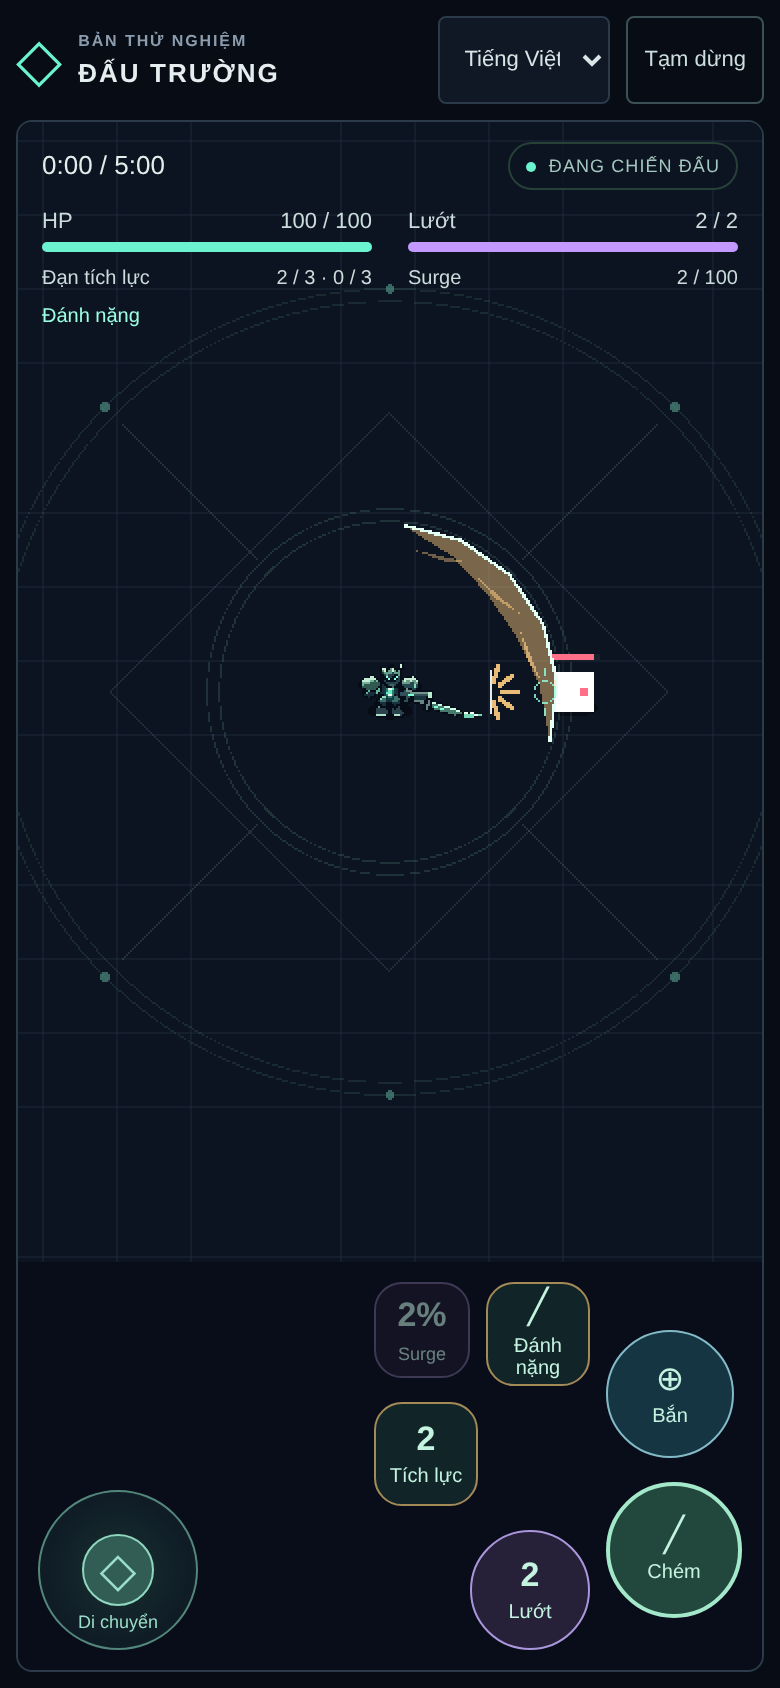
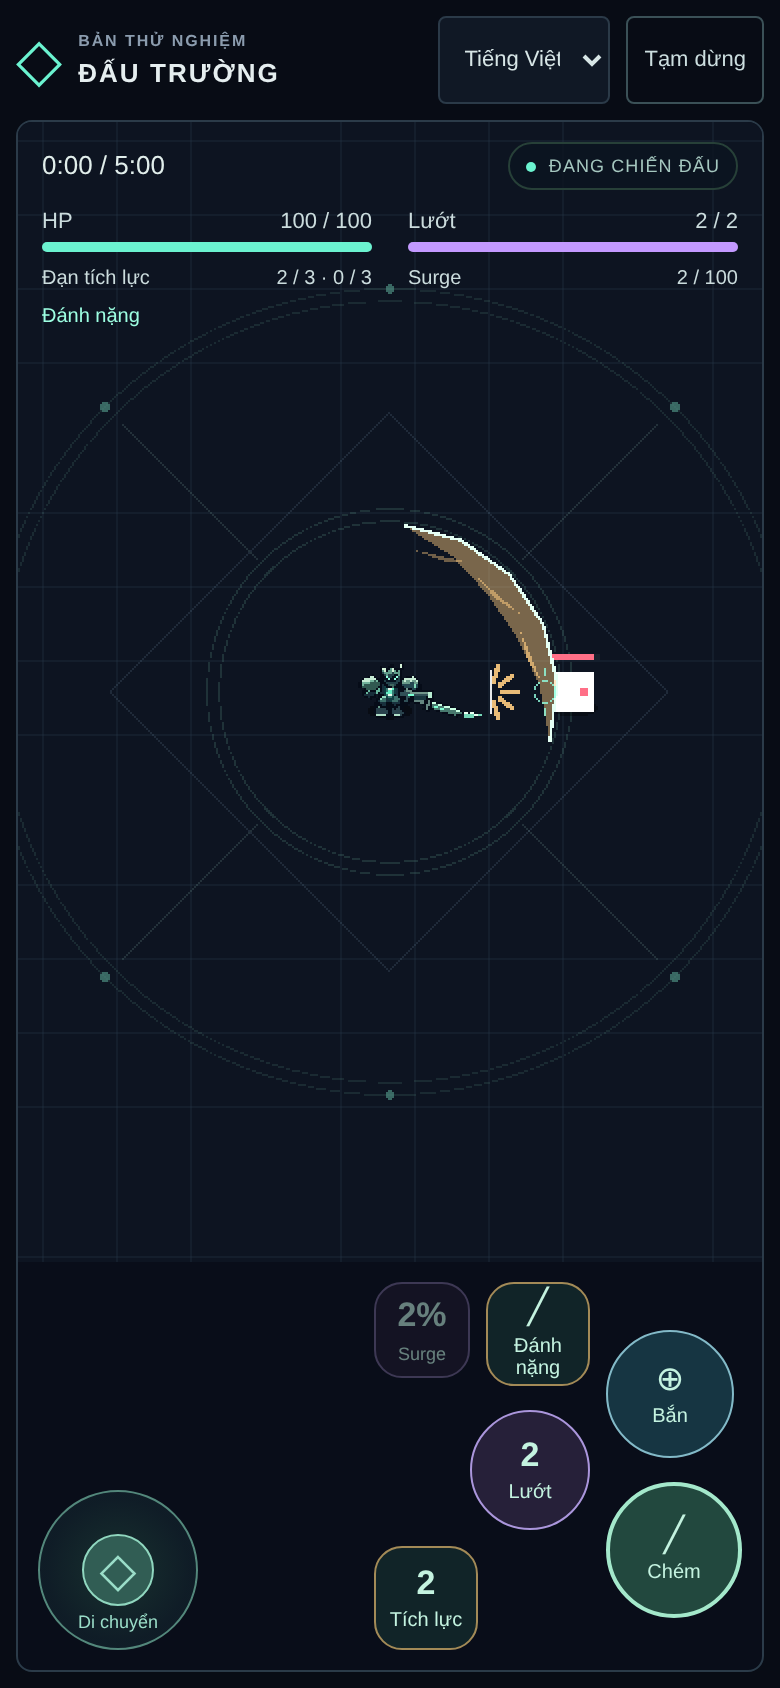
Gom Chém Bắn Lướt thành tam giác để chuyển ngón nhanh

Changed region(s): [[0.4923, 0.8318, 0.7692, 0.9858]]

diff --git a/src/style.css b/src/style.css
@@ -101,13 +101,13 @@ footer { display: none; }
 .touch-utility, .touch-primary { display: contents; }
 .touch-button { position: absolute; display: flex; flex-direction: column; justify-content: center; align-items: center; gap: 3px; min-width: 44px; min-height: 44px; padding: 3px; border: 1px solid #477168; border-radius: 14px; background: #12272aee; color: #c4f3e0; font-size: 10px; }
 .touch-button > span:first-child { font-size: 17px; font-weight: 600; line-height: 1.2; }
-/* Primary thumb arc: Shoot above Melee; Dash immediately inward. Specials sit apart. */
+/* Primary thumb arc: Shoot above Melee; Dash between them, inward. Specials sit apart. */
 .touch-button[data-action="ultimate"] { left: 0; top: 0; width: 48px; height: 48px; font-size: 9px; border-color: #72638f; background: #211c30ee; }
 .touch-button[data-action="heavy"] { left: 56px; top: 0; width: 52px; height: 52px; border-color: #a38a57; }
-.touch-button[data-action="charged"] { left: 0; top: 60px; width: 52px; height: 52px; border-color: #a38a57; }
+.touch-button[data-action="charged"] { left: 0; top: 132px; width: 52px; height: 52px; border-color: #a38a57; }
 .touch-button.shoot-button { left: 116px; top: 24px; width: 64px; height: 64px; border-radius: 50%; background: #183946ee; border-color: #83bac8; }
 .touch-button.melee-button { left: 116px; top: 100px; width: 68px; height: 68px; border-radius: 50%; background: #234b40f5; border: 2px solid #a4e8cb; }
-.touch-button.dash-button { left: 48px; top: 124px; width: 60px; height: 60px; border-radius: 50%; background: #29223cee; border-color: #ab96dc; }
+.touch-button.dash-button { left: 48px; top: 64px; width: 60px; height: 60px; border-radius: 50%; background: #29223cee; border-color: #ab96dc; }
 .aim-dot { transform: translate(var(--stick-x, 0px), var(--stick-y, 0px)); }
 .touch-controls .pressed { background: #34675a; border-color: #d8ffea; box-shadow: 0 0 14px #6bf3d030; }
 .touch-controls .unavailable { opacity: .5; }

diff --git a/GAME_BRIEF.md b/GAME_BRIEF.md
@@ -24,7 +24,7 @@
 - HUD/menu/draft/settings/results không tràn hoặc cắt lựa chọn trên phone; overlay có thể cuộn khi cần. Nút cảm ứng tối thiểu 44 CSS px, tôn trọng safe-area và viewport động.
 - Camera ưu tiên đọc player/VFX trên phone; viewport combat chừa chỗ controls ở dọc, controls đặt hai bên dưới khi ngang. Không đổi world coordinates, hitbox, AI hoặc timing.
 - Kiểm tra touch emulation dọc/ngang/tablet và desktop regression; phân biệt kết quả giả lập với thiết bị thật/Safari. Visual và combat feel trên thiết bị vẫn cần người dùng xác nhận.
-- Giữ giới hạn nội dung MVP. User đã giao Q2 cùng điều chỉnh cụm nút phải: Chém 68px ở góc dưới phải, Bắn 64px phía trên, Lướt 60px phía trong; Heavy/Tích lực/Surge tách khỏi các nút chính (48–52px). Bố cục cần playtest tầm với trên thiết bị thật; Q3–Q5 chưa triển khai.
+- Giữ giới hạn nội dung MVP. User đã giao Q2 cùng điều chỉnh cụm nút phải: Chém 68px ở góc dưới phải, Bắn 64px phía trên, Lướt 60px phía trong ở giữa Chém/Bắn để ba nút thành tam giác (tâm các nút cách nhau ~78–82px); Heavy/Tích lực/Surge tách khỏi các nút chính (48–52px). Bố cục cần playtest tầm với trên thiết bị thật; Q3–Q5 chưa triển khai.
 
 ## Điều khiển desktop
 | Input | Hành động |
